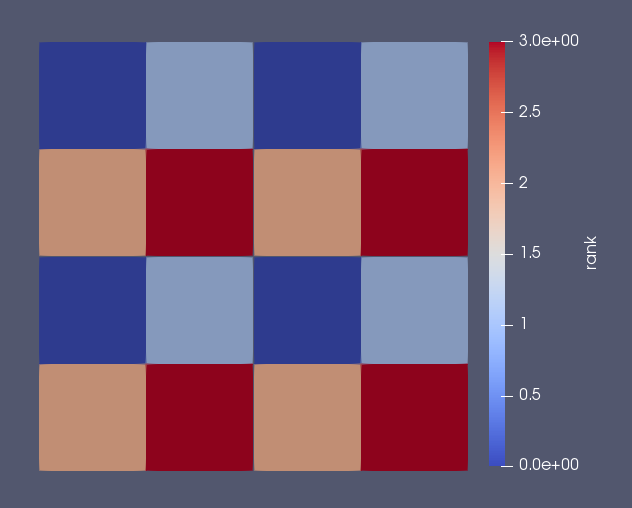
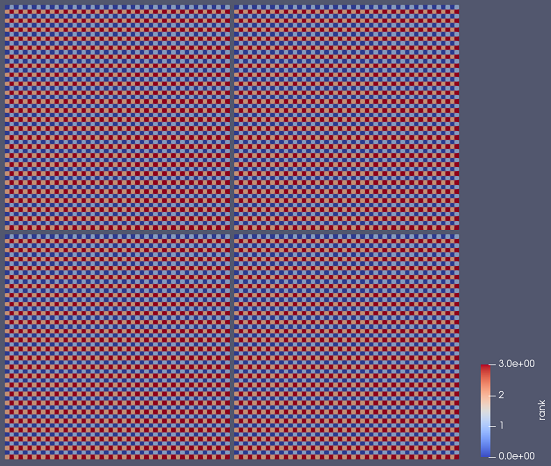
corrected mistakes

diff --git a/09_io/16_phdf5_write.cpp b/09_io/16_phdf5_write.cpp
@@ -15,11 +15,10 @@ int main (int argc, char** argv) {
   assert(mpisize == dim[0]*dim[1]);
   hsize_t N[2] = {NX, NY};
   hsize_t Nlocal[2] = {NX/dim[0], NY/dim[1]};
-  hsize_t Nlocal4[2] = {NX/dim[0]/2, NY/dim[1]/2};
   hsize_t offset[2] = {mpirank / dim[0], mpirank % dim[0]};
-  for(int i=0; i<2; i++) offset[i] *= Nlocal4[i];
-  hsize_t count[2] = {2,2};
-  hsize_t stride[2] = {2*Nlocal4[0], 2*Nlocal4[1]};
+  hsize_t count[2] = {Nlocal[0], Nlocal[1]};
+  hsize_t stride[2] = {2, 2};
+  hsize_t block[2] = {1, 1};
   vector<int> buffer(Nlocal[0]*Nlocal[1],mpirank);
   hid_t plist = H5Pcreate(H5P_FILE_ACCESS);
   H5Pset_fapl_mpio(plist, MPI_COMM_WORLD, MPI_INFO_NULL);
@@ -28,7 +27,7 @@ int main (int argc, char** argv) {
   hid_t localspace = H5Screate_simple(2, Nlocal, NULL);
   hid_t dataset = H5Dcreate(file, "dataset", H5T_NATIVE_INT, globalspace,
 			    H5P_DEFAULT, H5P_DEFAULT, H5P_DEFAULT);
-  H5Sselect_hyperslab(globalspace, H5S_SELECT_SET, offset, stride, count, Nlocal4);
+  H5Sselect_hyperslab(globalspace, H5S_SELECT_SET, offset, stride, count, block);
   H5Pclose(plist);
   plist = H5Pcreate(H5P_DATASET_XFER);
   H5Pset_dxpl_mpio(plist, H5FD_MPIO_COLLECTIVE);

diff --git a/09_io/17_phdf5_read.cpp b/09_io/17_phdf5_read.cpp
@@ -22,13 +22,12 @@ int main (int argc, char** argv) {
   H5Sget_simple_extent_dims(globalspace, N, NULL);
   hsize_t NX = N[0], NY = N[1];
   hsize_t Nlocal[2] = {NX/dim[0], NY/dim[1]};
-  hsize_t Nlocal4[2] = {NX/dim[0]/2, NY/dim[1]/2};
   hsize_t offset[2] = {mpirank / dim[0], mpirank % dim[0]};
-  for(int i=0; i<2; i++) offset[i] *= Nlocal4[i];
-  hsize_t count[2] = {2,2};
-  hsize_t stride[2] = {2*Nlocal4[0], 2*Nlocal4[1]};
+  hsize_t count[2] = {Nlocal[0], Nlocal[1]};
+  hsize_t stride[2] = {2, 2};
+  hsize_t block[2] = {1, 1};
   hid_t localspace = H5Screate_simple(2, Nlocal, NULL);
-  H5Sselect_hyperslab(globalspace, H5S_SELECT_SET, offset, stride, count, Nlocal4);
+  H5Sselect_hyperslab(globalspace, H5S_SELECT_SET, offset, stride, count, block);
   H5Pclose(plist);
   vector<int> buffer(Nlocal[0]*Nlocal[1]);
   plist = H5Pcreate(H5P_DATASET_XFER);

diff --git a/09_io/18_check_block_pattern.cpp b/09_io/18_check_block_pattern.cpp
@@ -1,6 +1,5 @@
 #include <cassert>
 #include <cstdio>
-#include <chrono>
 #include <vector>
 #include "hdf5.h"
 using namespace std;

diff --git a/09_io/block_pattern.md b/09_io/block_pattern.md
@@ -5,4 +5,4 @@
 I checked if the block pattern is correct, visually.  
 18_check_block_pattern.cpp outputs vti file,  
 then we can visualize the pattern by inputting the file to Paraview.  
-Where the array size is NX=256, NY=256.  
+Where the array size is NX=100, NY=100.  
